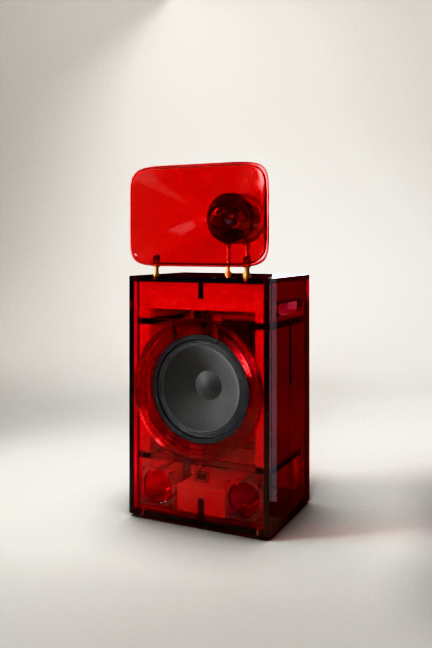
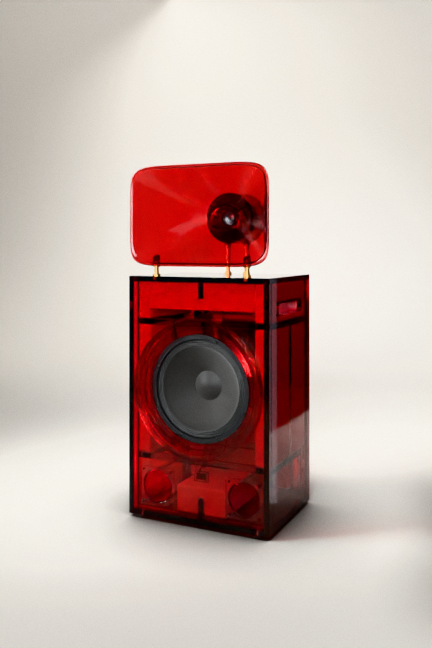
Tropos: the frame test padded to 1.15 (lens shift); the deck hero honest (back off, no in-frame cards); its honest proof
Tall's mirror card is now removed instead of moved. The tall proxies are identical to f7f03850's: Ice 0.74 / 0.49, Ember 0.71 / 0.40.

Deck hero at 0.3 scale:
- side high: (83,10,12), 0.90
- side low: (92,63,59), 0.38
- top chamber: (170,1,1), 0 % clipped
- lid strip: (101,93,87), 0.48

Claude-Session: https://claude.ai/code/session_01CsZ9sPVytkpnrfV4BgTgfB

diff --git a/spinoffs/barkhorn/campaign/shots.py b/spinoffs/barkhorn/campaign/shots.py
@@ -356,6 +356,8 @@ def _hero_gate3(s):
     if 'edge' in L and L['edge'].get('power_w'):
         L['edge']['power_w'] = round(L['edge']['power_w'] / 3, 3)
     honest_lights(s)                                       # the owner's rule (horn to specular 1, kick and back unlinked)
+    if 'back' in L:                                        # as the site frames: unlinked, it lit the floor the face mirrors
+        L['back']['irradiance'] = 0.0
     cards_out_of_frame(s)
     return s
 
@@ -661,13 +663,14 @@ def _in_frame(s, pts):
     f /= np.linalg.norm(f); r = np.cross(f, [0.0, 0.0, 1.0]); r /= np.linalg.norm(r); u = np.cross(r, f)
     W, H = s['size']; lens = cam['lens_mm']
     hx, hy = (18.0, 18.0 * H / W) if W >= H else (18.0 * W / H, 18.0)
-    sx, sy = cam.get('shift_x', 0.0) * 2, cam.get('shift_y', 0.0) * 2
+    # (a lens shift moves the frame by up to a few per cent; the test is padded to 1.15 of the half-frame both ways
+    # rather than trusting the shift's sign and scale)
     for p in pts:
         d = np.array(p, float) - c; z = d @ f
         if z <= 0:
             continue
-        x = (d @ r) / z * lens / hx - sx; y = (d @ u) / z * lens / hy - sy
-        if abs(x) <= 1.02 and abs(y) <= 1.02:
+        x = (d @ r) / z * lens / hx; y = (d @ u) / z * lens / hy
+        if abs(x) <= 1.15 and abs(y) <= 1.15:
             return True
     return False
 
